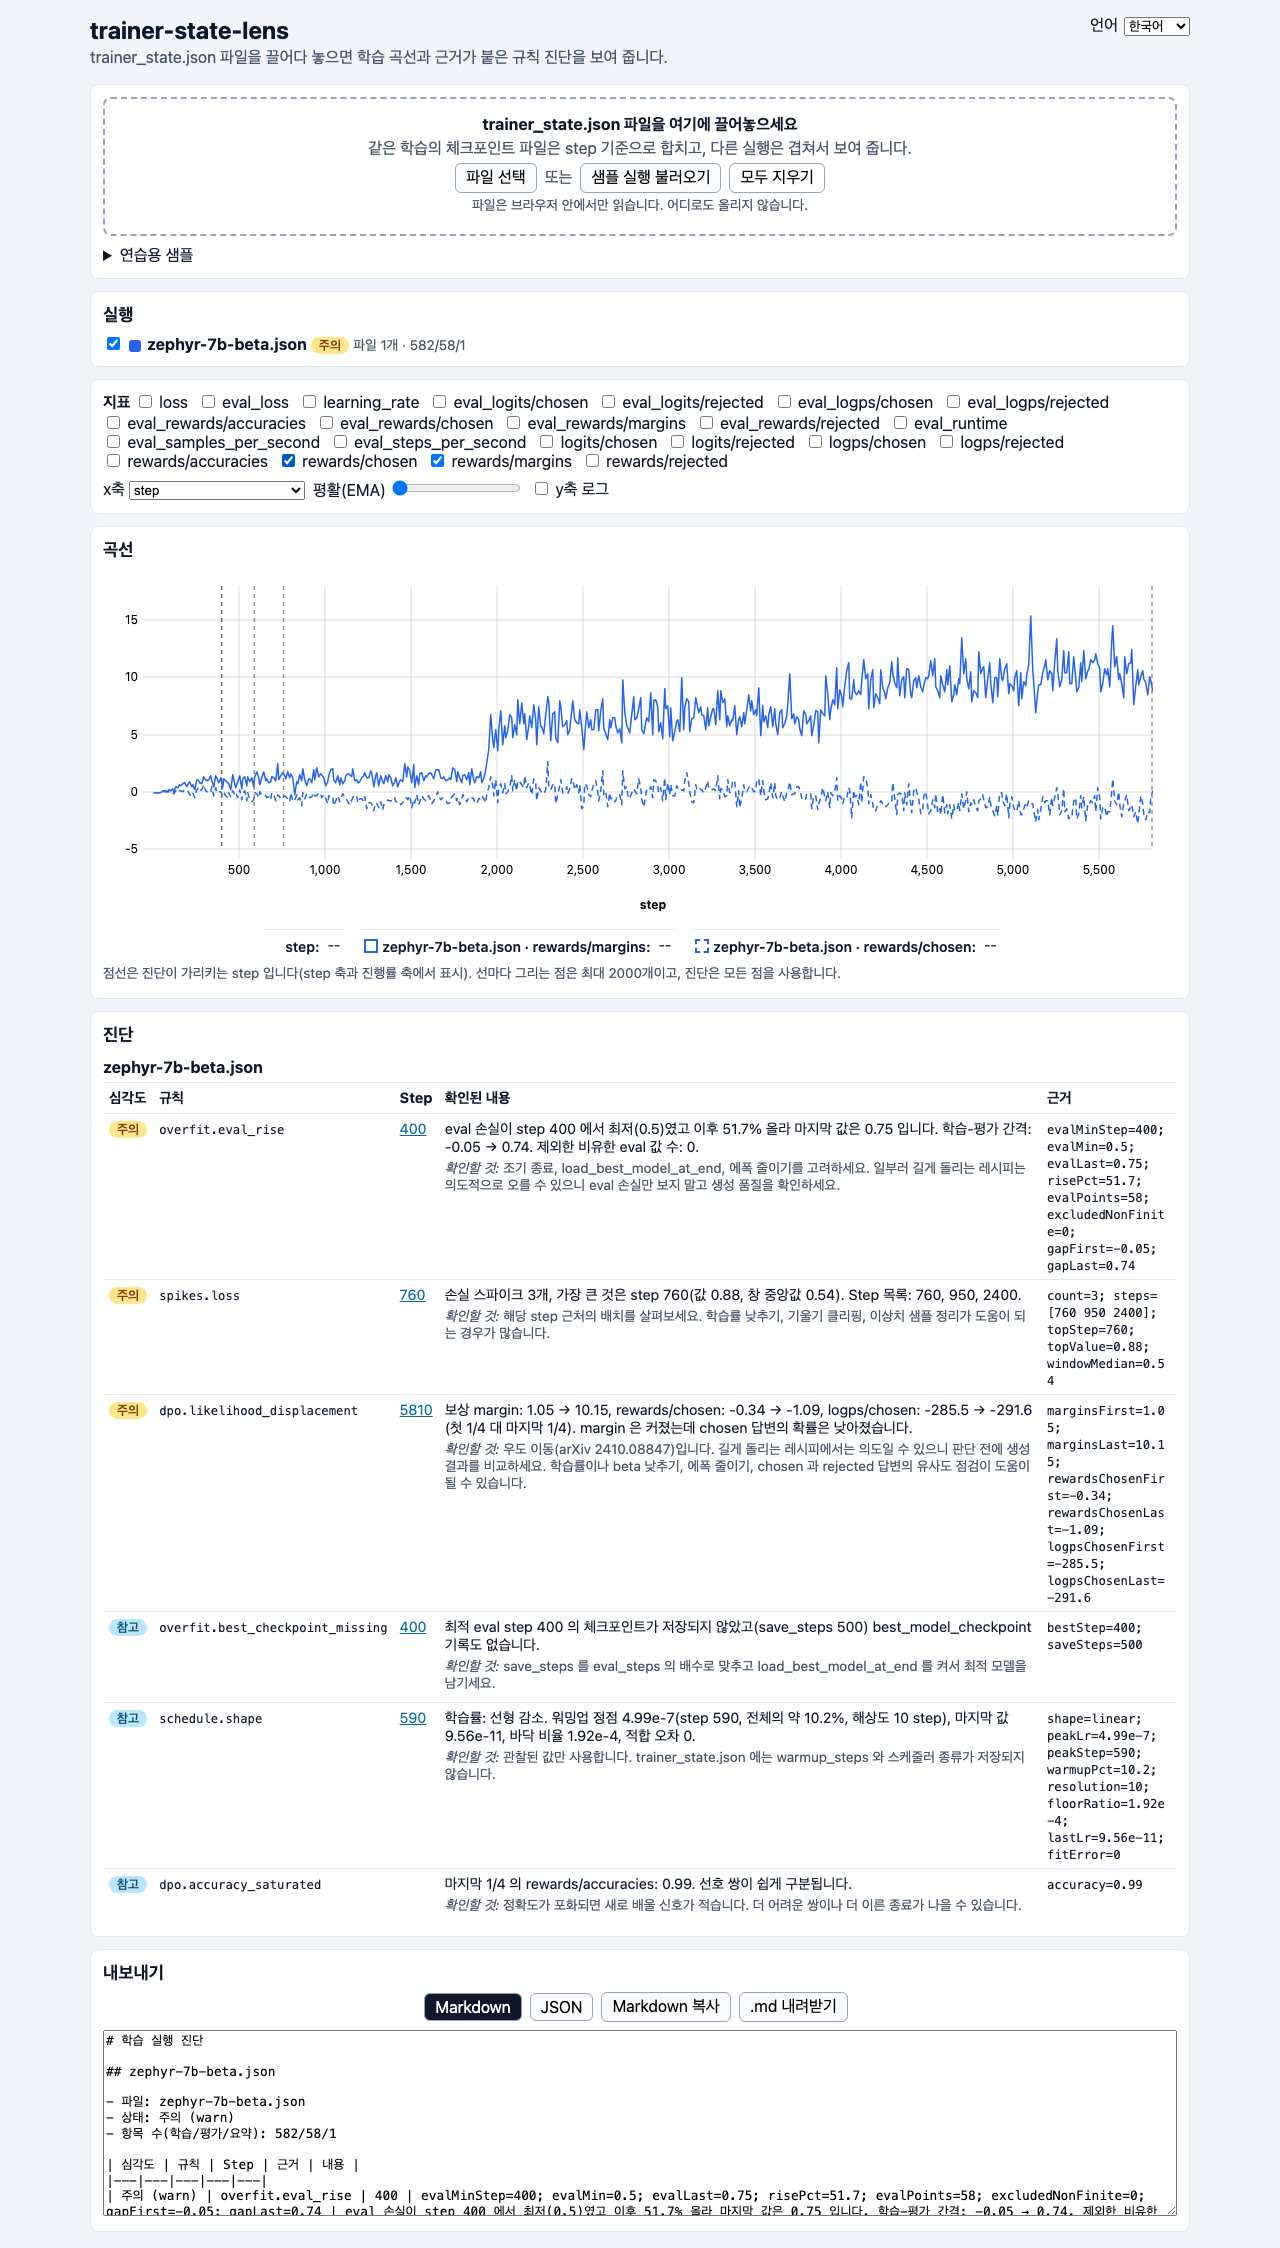
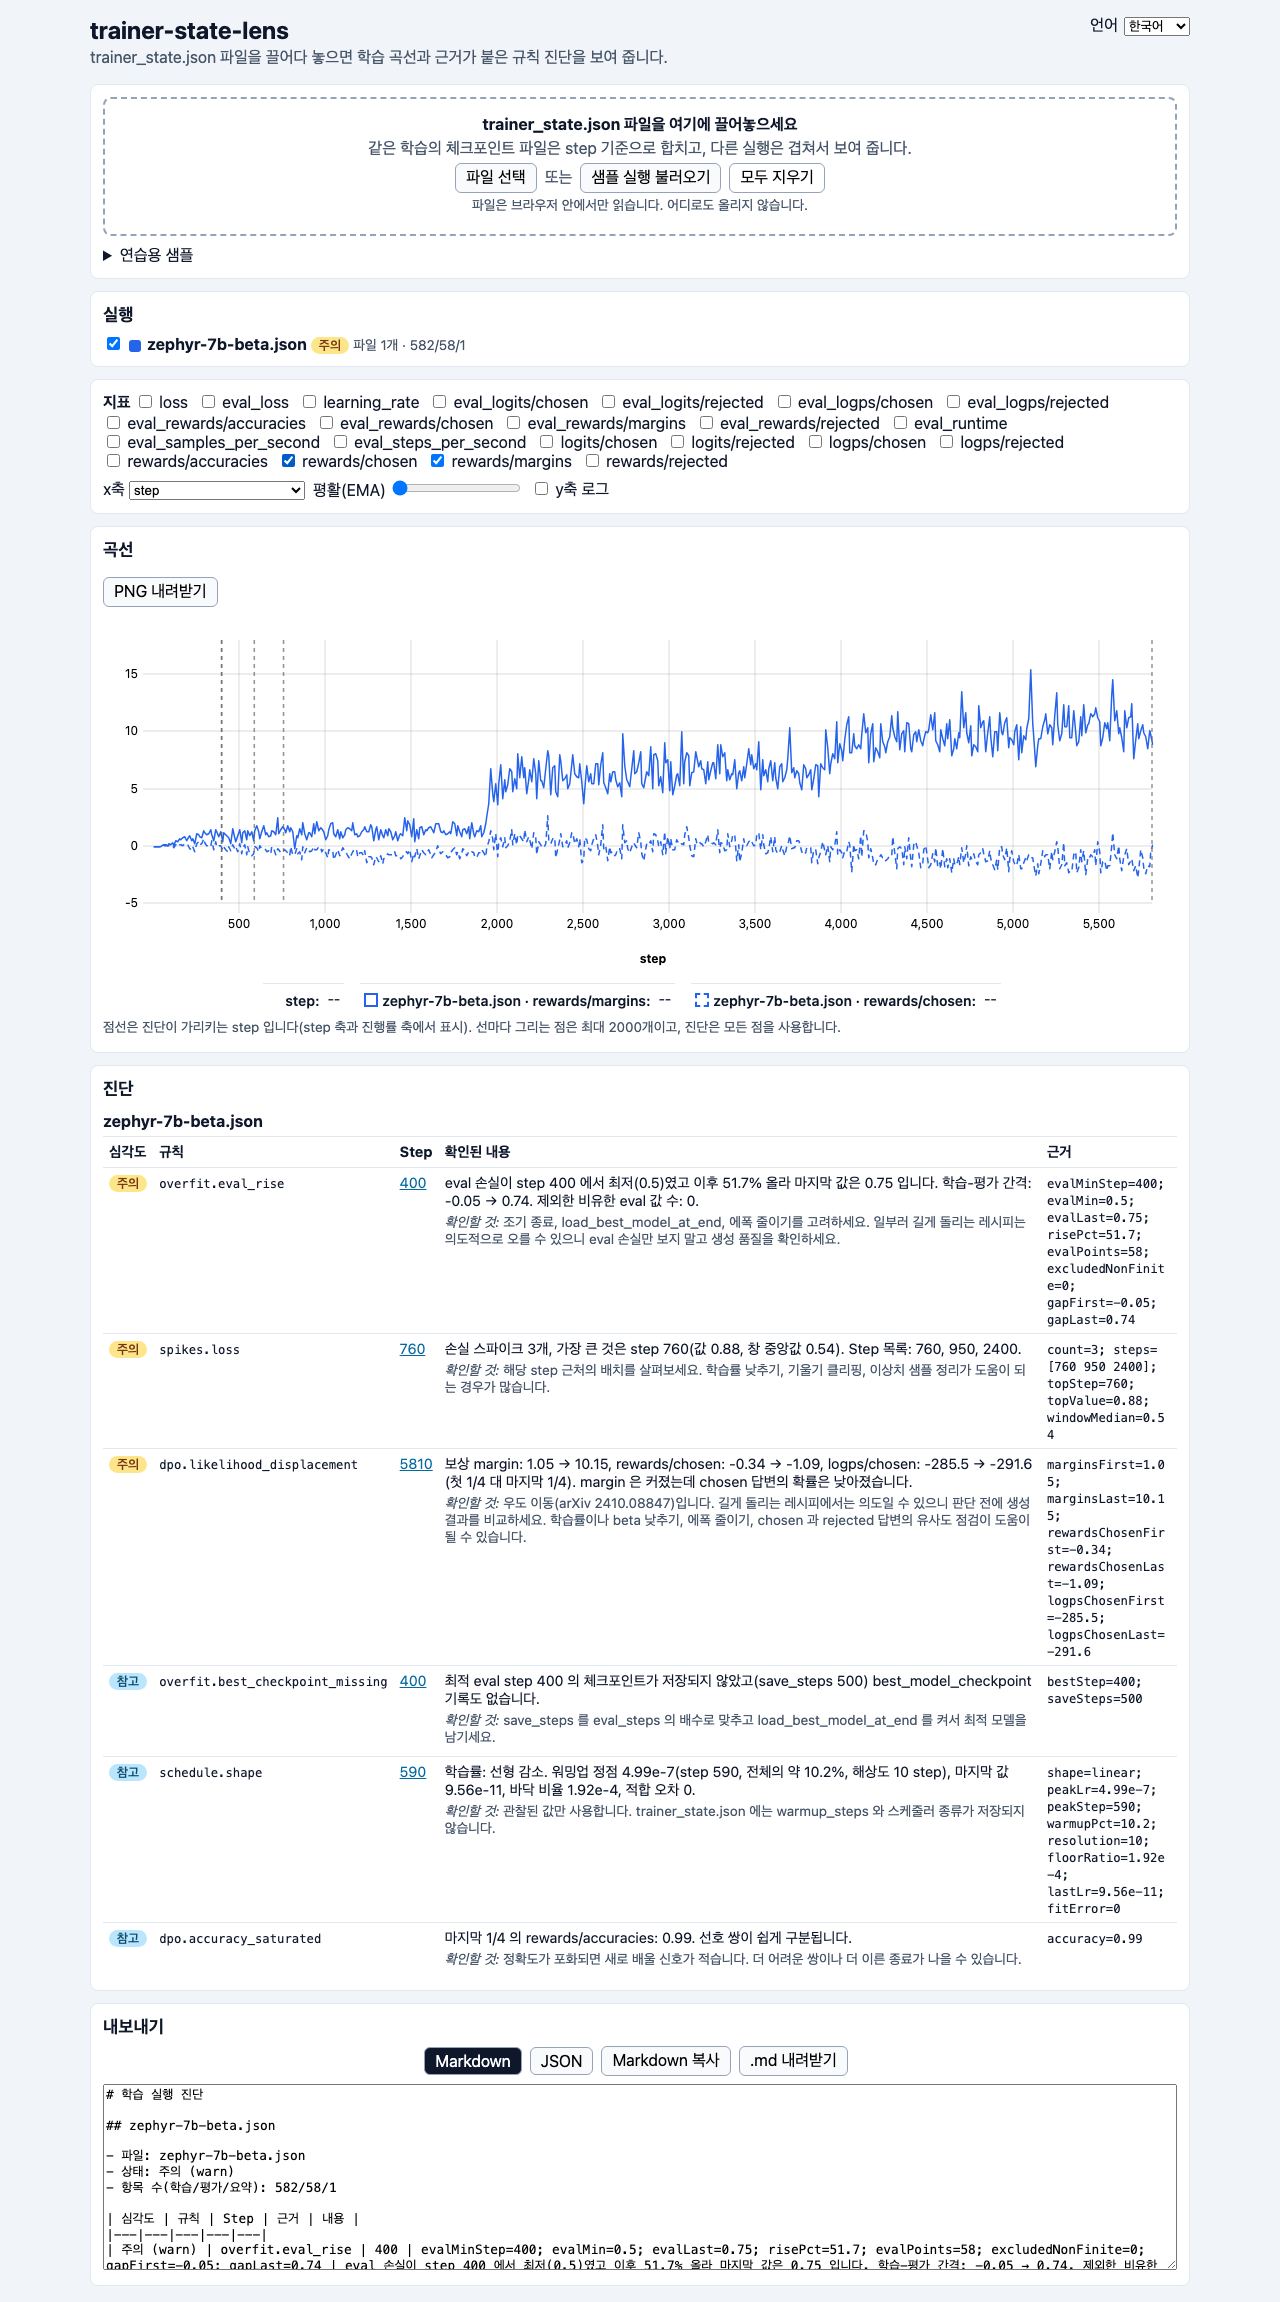
docs(readme): document PNG download and refresh screenshots
Add the PNG failure message to Troubleshooting in both languages and
retake the screenshots so the new button is visible.

diff --git a/README.ko.md b/README.ko.md
@@ -50,6 +50,7 @@ npm run dev
 | 평활(EMA) | 지수 이동 평균 슬라이더. 진단은 항상 원본 값을 씁니다. |
 | 로그 y축 | 로그 스케일. |
 | 진단표 | 심각도·규칙·step·근거 수치·무엇이 보이나·무엇을 확인하나. step 링크를 누르면 그 step 으로 확대하고, step 축에서는 점선이 진단된 step 을 표시합니다. |
+| **PNG 내려받기**(차트 패널) | 지금 화면의 차트(숨긴 실행, 지표, 평활, 로그 y축, 확대 범위, 점선 표시 그대로)를 `training-curves.png` 로 저장합니다. 숨긴 선은 그림에서도 빠집니다. 실행·지표 범례가 축 이름과 함께 그림에 들어갑니다. 파일은 브라우저 안에서 만들어지고 어디로도 전송되지 않습니다. |
 | 내보내기 | Markdown 또는 JSON, 복사 또는 다운로드. |
 | 언어 | 오른쪽 위 English / 한국어 메뉴. |
 
@@ -221,13 +222,14 @@ flowchart LR
 | "Could not read <파일>" 카드(파일을 읽지 못함) | 학습 상태 파일이 아님(잘렸거나 다른 JSON) | 완전한 `trainer_state.json` 인지 확인. 다른 파일은 계속 동작 |
 | 지표 체크박스에 어떤 지표가 없음 | 파일에 그 키가 없음 | `log_history` 에 있는 키만 나옴 |
 | "Copy failed"(복사 실패) | 브라우저가 클립보드를 막음 | 내보내기 상자의 글을 선택해 직접 복사하거나 **내려받기** 사용 |
+| "PNG 를 만들지 못했습니다"(Could not create the PNG) | 브라우저가 차트 캔버스를 내보내지 못함 | 다른 브라우저를 쓰거나 차트를 화면 캡처 |
 | `dist/index.html` 을 더블클릭하면 빈 화면 | 브라우저가 `file://` 에서 모듈 스크립트를 막음 | 빌드 후 서비스: `npm run build && npm run preview` |
 
 ## 개발·기여
 
 ```bash
 npm install
-npm test            # vitest, 14개 파일, 115개 테스트
+npm test            # vitest, 15개 파일, 123개 테스트
 npm run typecheck   # tsc (테스트 포함)
 npm run build       # tsc -b && vite build, 결과는 dist/
 npm run lint        # oxlint

diff --git a/README.md b/README.md
@@ -50,6 +50,7 @@ Or drop your own file: a `trainer_state.json` lives in the output folder of a ru
 | Smoothing (EMA) | Exponential moving average slider; diagnoses always use the raw values. |
 | Log y axis | Logarithmic scale. |
 | Diagnosis table | Severity, rule, step, evidence numbers, what we see, what to check. The step link zooms the chart to that step; dashed lines mark diagnosed steps on the step axis. |
+| **Download PNG** (chart panel) | Saves the chart as it is on screen (hidden runs, metrics, smoothing, log y, zoom, dashed markers) as `training-curves.png`. Hidden lines are left out of the picture too. The run and metric legend is drawn into the picture together with the axis names. The file is made in the browser and never sent anywhere. |
 | Export | Markdown or JSON, copy or download. |
 | Language | English or 한국어 menu in the top right. |
 
@@ -221,13 +222,14 @@ Check each project's own documentation for what it supports today.
 | "Could not read <file>" card | the file is not a trainer state (cut-off or wrong JSON) | check that it is a whole `trainer_state.json`; other files keep working |
 | A metric is missing from the checkboxes | the file has no such key | only keys in `log_history` are offered |
 | "Copy failed" | the browser blocks clipboard access | select the text in the export box and copy by hand, or use **Download** |
+| "Could not create the PNG. Try another browser or take a screenshot." | the browser could not export the chart canvas | try another browser, or take a screenshot of the chart |
 | The page is blank when opened from `dist/index.html` by double click | browsers block module scripts on `file://` | build and serve it: `npm run build && npm run preview` |
 
 ## Development
 
 ```bash
 npm install
-npm test            # vitest, 14 files, 115 tests
+npm test            # vitest, 15 files, 123 tests
 npm run typecheck   # tsc, including tests
 npm run build       # tsc -b && vite build, output in dist/
 npm run lint        # oxlint
